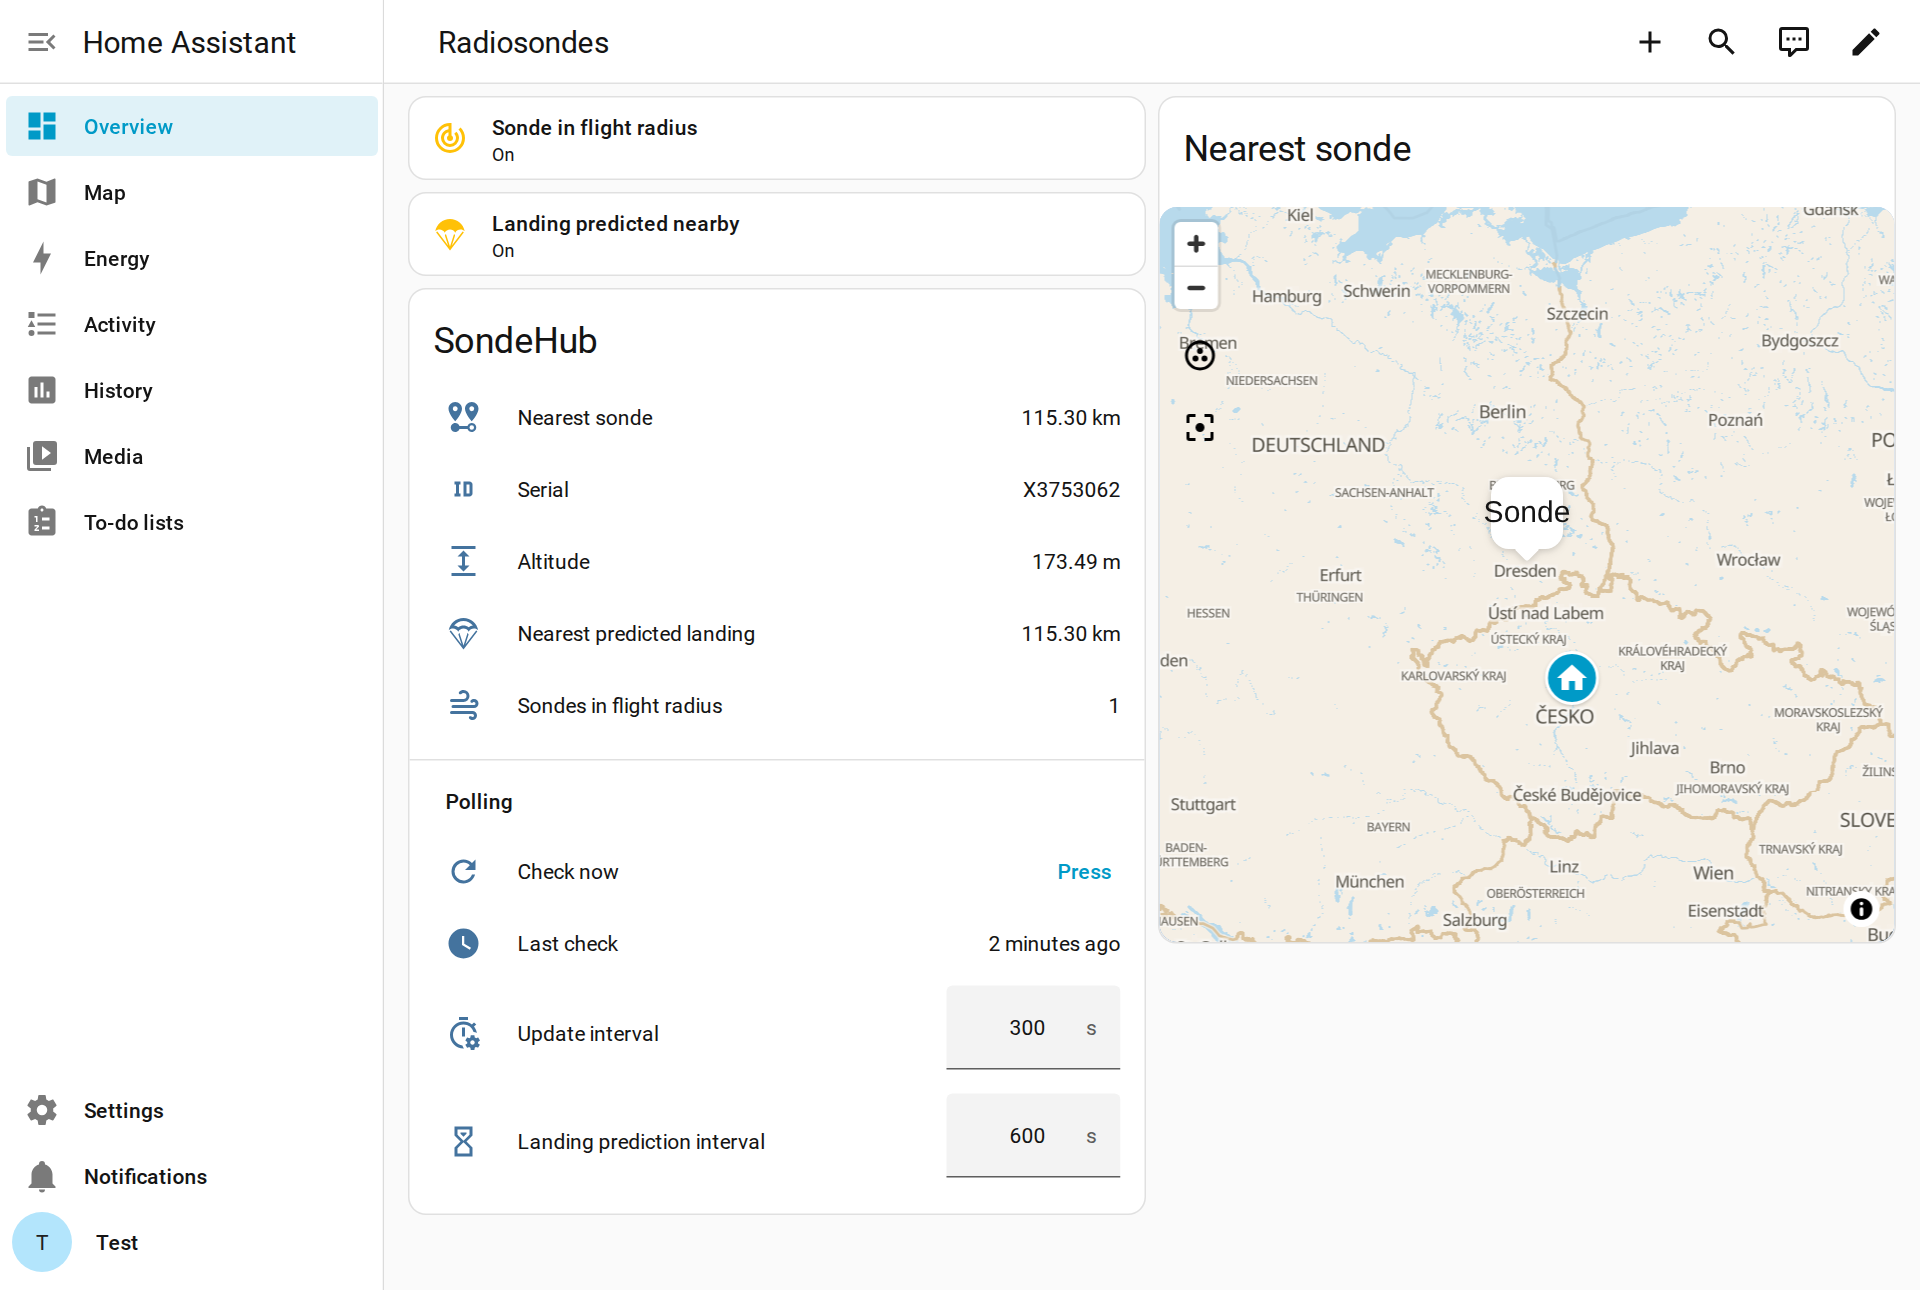
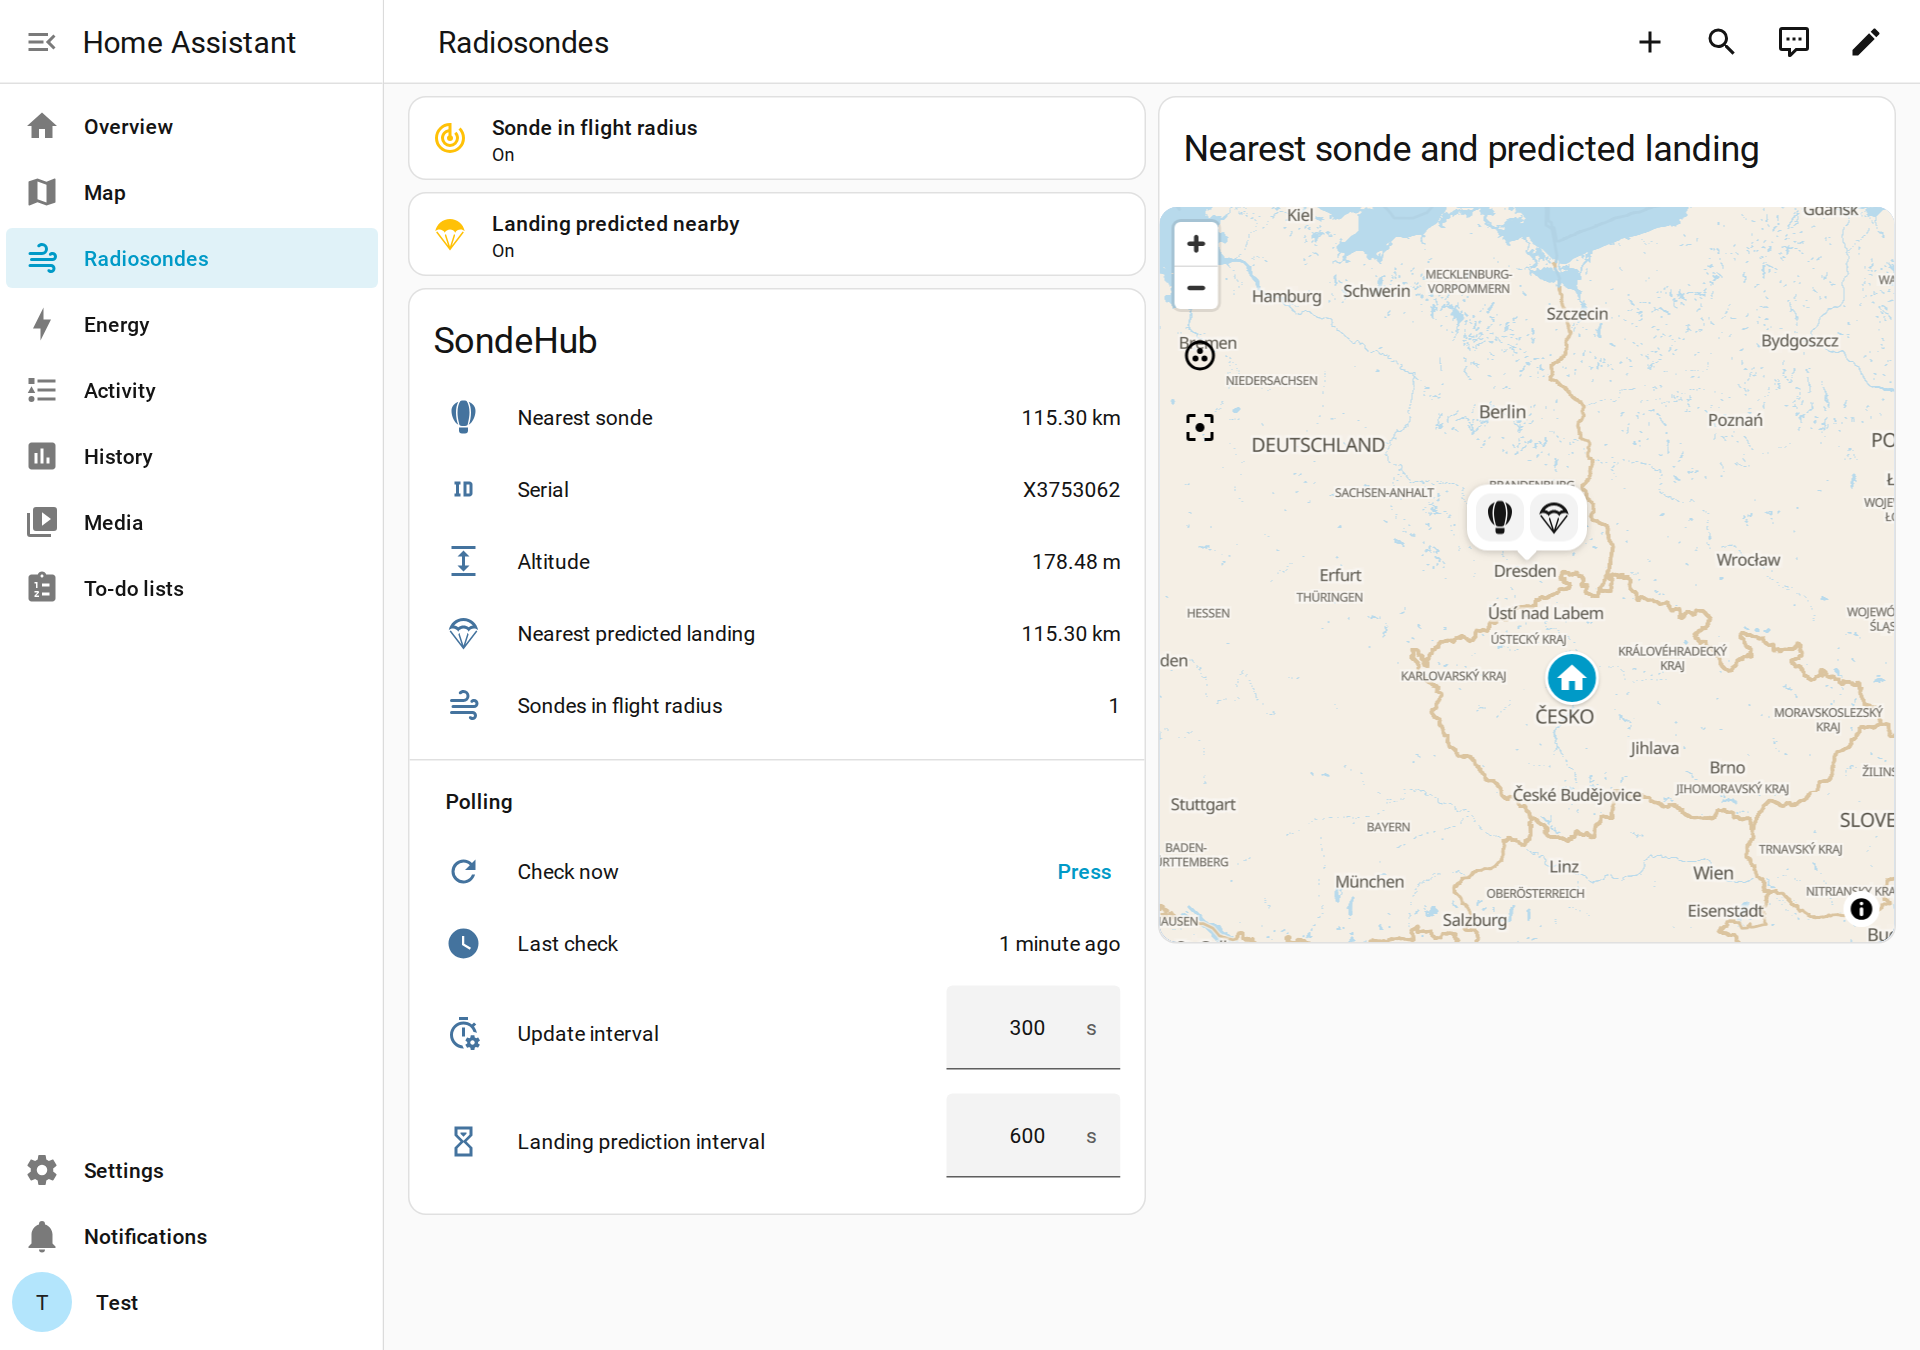
Show predicted landings at the landing spot on maps; full example dashboard
- The nearest predicted landing sensor and the landing nearby binary
  sensor now set latitude/longitude to the predicted landing point (the
  sonde position moves to sonde_latitude/sonde_longitude), so maps show
  where the sonde will land instead of where it is.
- Balloon icon for the nearest sonde sensor.
- examples/dashboard.yaml is now a complete dashboard to paste in the raw
  configuration editor of a new dashboard; its map shows sonde and
  landing with icon markers.
- README: dashboard steps for recent HA, explain the map initials.

diff --git a/custom_components/sondehub/entity.py b/custom_components/sondehub/entity.py
@@ -11,12 +11,17 @@ from .const import DOMAIN
 from .coordinator import SondeHubCoordinator
 
 
-def sonde_attrs(info: dict[str, Any] | None) -> dict[str, Any]:
-    """Attributes describing one sonde (and its landing, if known)."""
+def sonde_attrs(info: dict[str, Any] | None, at_landing: bool = False) -> dict[str, Any]:
+    """Attributes describing one sonde (and its landing, if known).
+
+    Maps place an entity at its latitude/longitude attributes. With
+    ``at_landing`` they point at the predicted landing spot instead of the
+    sonde, whose position stays available as sonde_latitude/sonde_longitude.
+    """
     if not info:
         return {}
     landing = info.get("landing") or {}
-    return {
+    attrs = {
         "serial": info["serial"],
         "sonde_type": info["type"],
         "frequency_mhz": info["frequency"],
@@ -35,6 +40,12 @@ def sonde_attrs(info: dict[str, Any] | None) -> dict[str, Any]:
         "landing_time": landing.get("time"),
         "landed": landing.get("landed"),
     }
+    if at_landing and landing:
+        attrs["sonde_latitude"] = attrs["latitude"]
+        attrs["sonde_longitude"] = attrs["longitude"]
+        attrs["latitude"] = landing["latitude"]
+        attrs["longitude"] = landing["longitude"]
+    return attrs
 
 
 class SondeHubEntity(CoordinatorEntity[SondeHubCoordinator]):

diff --git a/custom_components/sondehub/binary_sensor.py b/custom_components/sondehub/binary_sensor.py
@@ -40,5 +40,10 @@ class RadiusBinarySensor(SondeHubEntity, BinarySensorEntity):
         serials = self.coordinator.data[self._data_key]
         attrs: dict[str, Any] = {"serials": serials}
         if serials:
-            attrs.update(sonde_attrs(self.coordinator.data["sondes"][serials[0]]))
+            attrs.update(
+                sonde_attrs(
+                    self.coordinator.data["sondes"][serials[0]],
+                    at_landing=self._data_key == "in_landing_radius",
+                )
+            )
         return attrs

diff --git a/custom_components/sondehub/sensor.py b/custom_components/sondehub/sensor.py
@@ -69,7 +69,7 @@ class NearestLandingDistance(SondeHubEntity, SensorEntity):
     @property
     def extra_state_attributes(self) -> dict[str, Any]:
         s = self.coordinator.data["nearest_landing"]
-        return sonde_attrs(self.coordinator.data["sondes"].get(s)) if s else {}
+        return sonde_attrs(self.coordinator.data["sondes"].get(s), at_landing=True) if s else {}
 
 
 class SondesInRange(SondeHubEntity, SensorEntity):

diff --git a/README.md b/README.md
@@ -93,10 +93,18 @@ a sonde enters your flight radius or is predicted to land nearby.
 
 ### Dashboard (optional)
 
-[`examples/dashboard.yaml`](examples/dashboard.yaml) is the view shown in the
-screenshot above (status tiles, details, polling controls and a map). In a
-dashboard: ✏ Edit → ⋮ → **Raw configuration editor**, and paste it as an item
-under `views:`.
+[`examples/dashboard.yaml`](examples/dashboard.yaml) is the dashboard shown in
+the screenshot above: status tiles, details, polling controls, and a map with
+the nearest sonde (balloon) and the nearest predicted landing (parachute).
+
+1. Settings → Dashboards → **+ Add dashboard** → **New dashboard from
+   scratch** → title `Radiosondes` → **Create**. It appears in the sidebar.
+2. Open it → ✏ (top right) → ⋮ → **Raw configuration editor**.
+3. Replace everything with the content of `examples/dashboard.yaml` → **Save**
+   → **Done**.
+
+The file assumes the default entity ids (`sensor.sondehub_…`). If you named
+the integration entry differently, adjust the `sondehub_` prefix.
 
 ## Request frequency
 
@@ -167,6 +175,15 @@ attributes: `serial`, `sonde_type`, `frequency_mhz`, `latitude`, `longitude`,
 `altitude_m`, `vertical_speed_ms`, `descending`, `distance_km`, `bearing`,
 `last_frame`, `landing_latitude`, `landing_longitude`, `landing_distance_km`,
 `landing_bearing`, `landing_time`, `landed`.
+
+Because they have `latitude`/`longitude`, these entities also show up on
+maps, including the sidebar **Map**, which labels them with the initials of
+their name: `SNs` = *SondeHub Nearest sonde distance*, `SNp` = *SondeHub
+Nearest predicted landing distance*, `SSn` / `SLn` = *Sonde nearby* /
+*Landing nearby* (only while on). The sonde entities sit at the sonde's last
+position. The landing entities (`…_nearest_predicted_landing_distance`,
+`…_landing_nearby`) sit at the **predicted landing spot**, and carry the
+sonde's own position as `sonde_latitude` / `sonde_longitude`.
 
 ## Events
 
